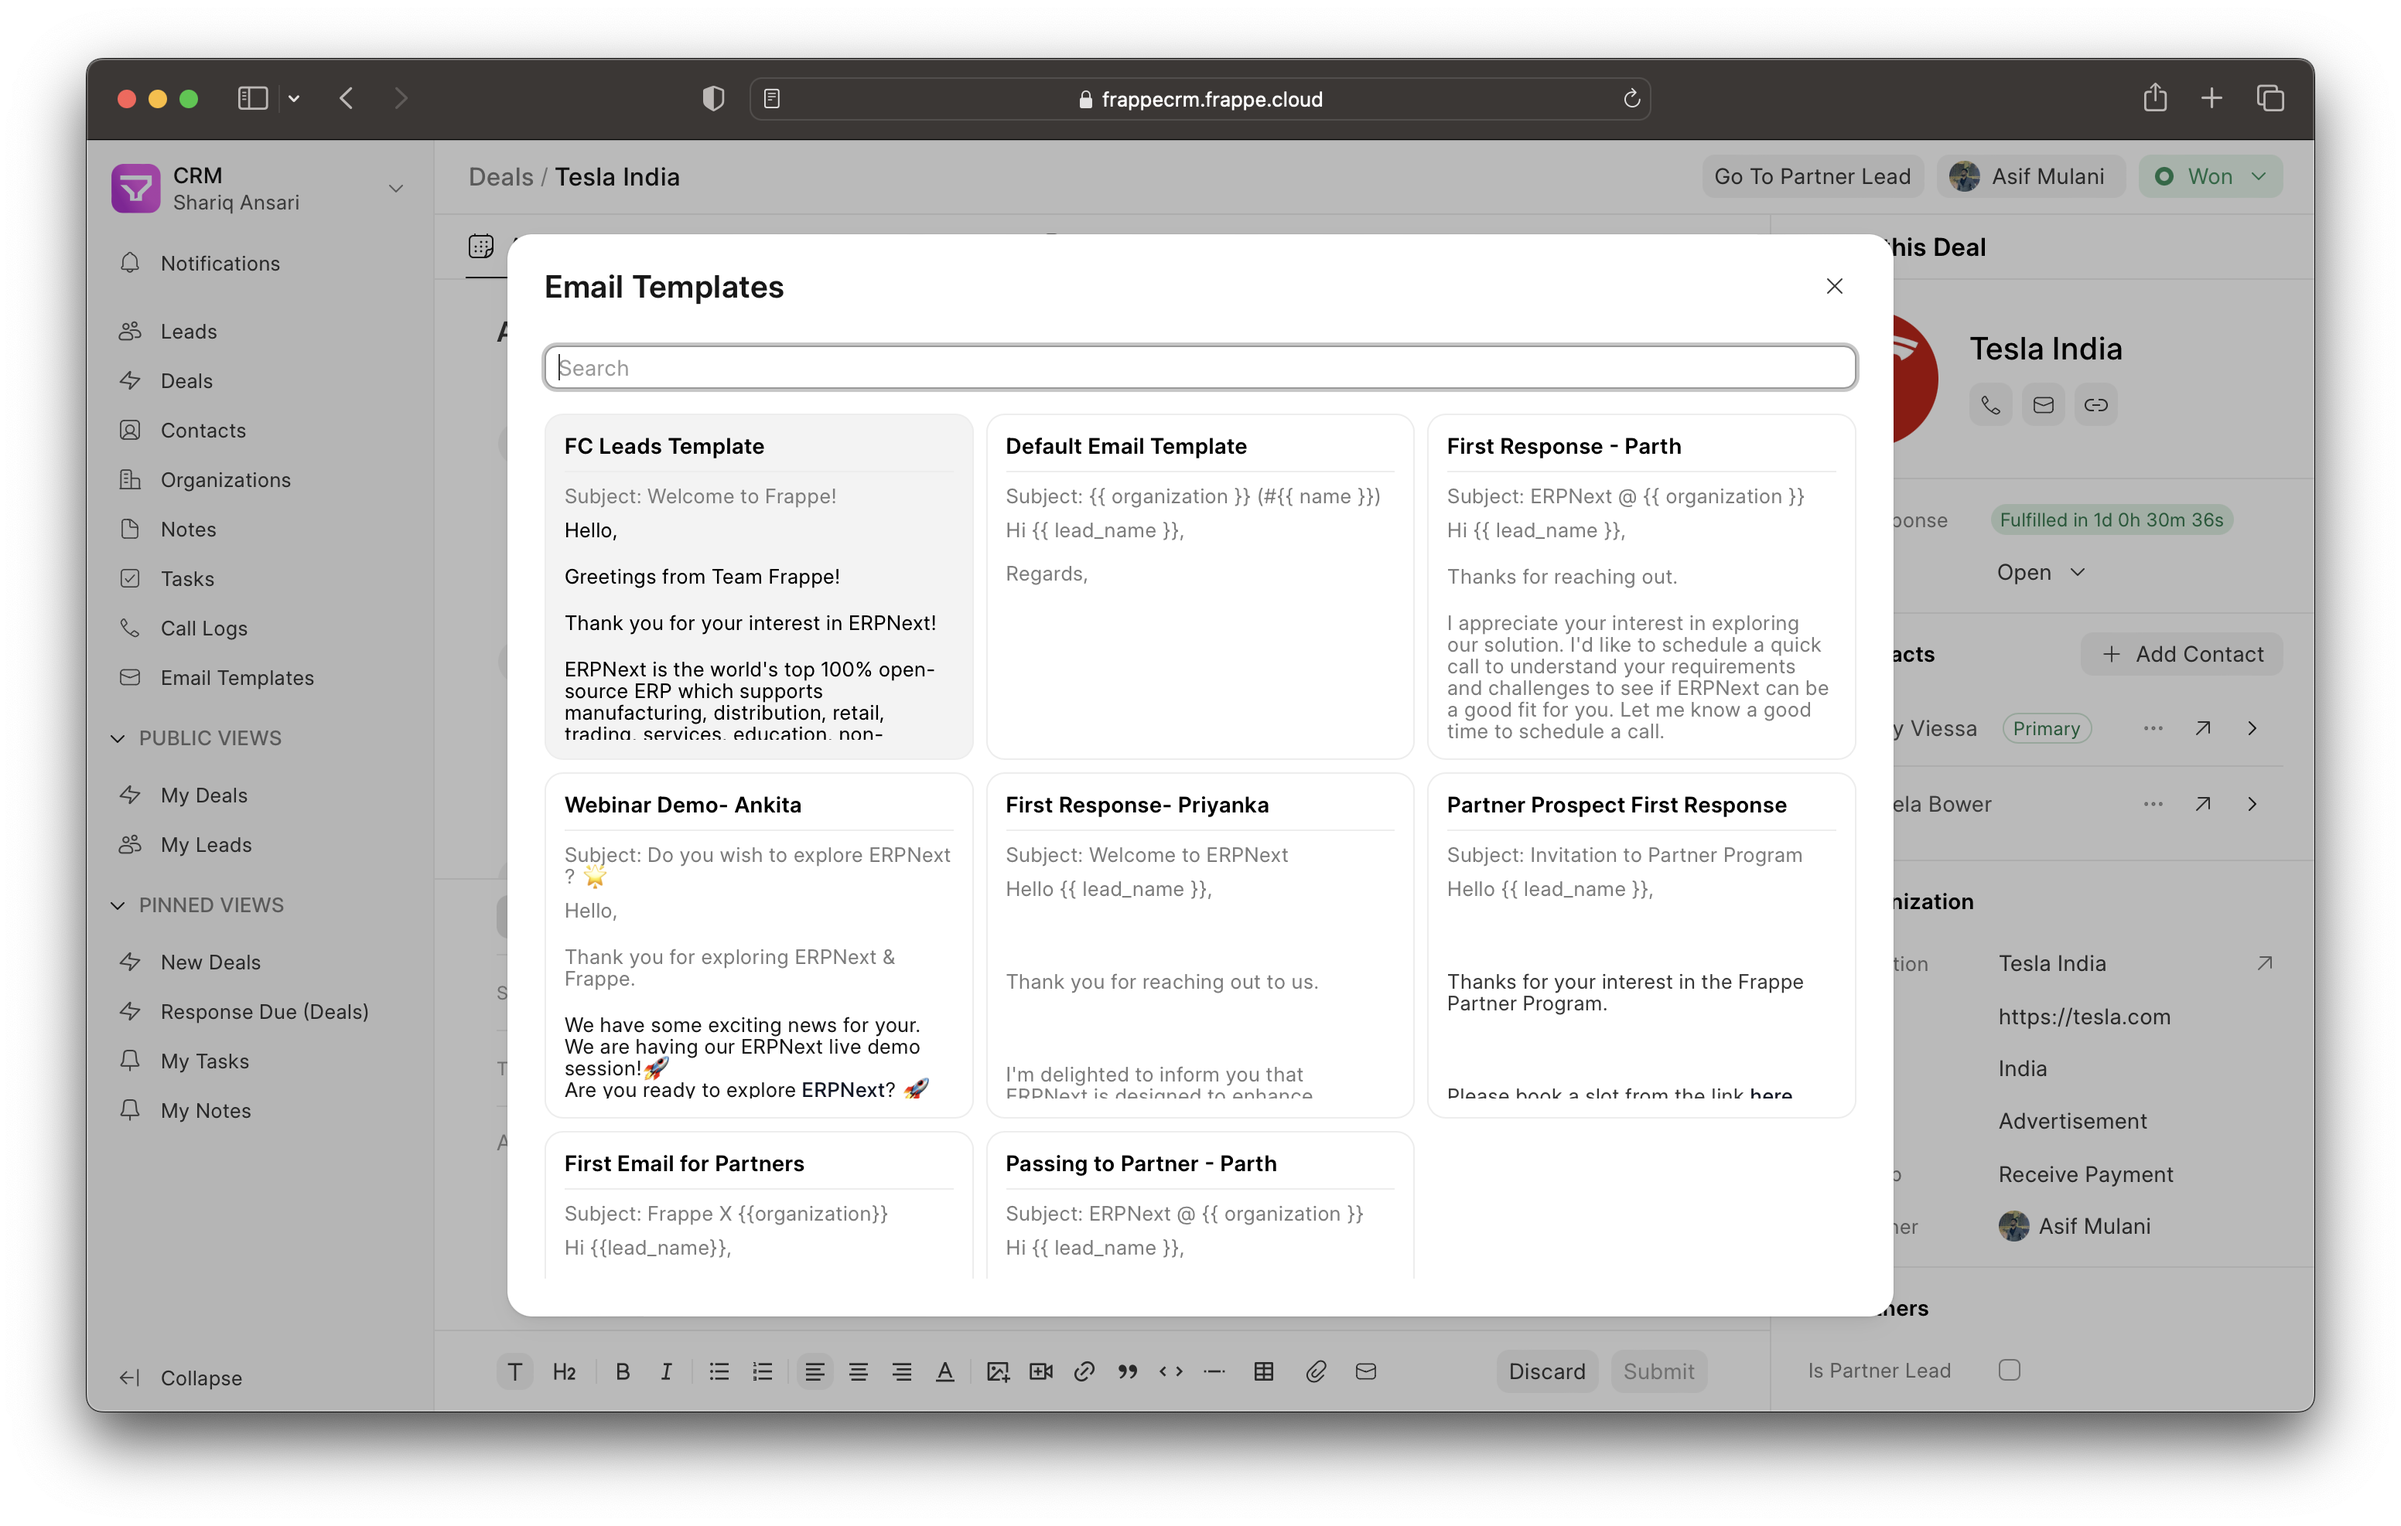
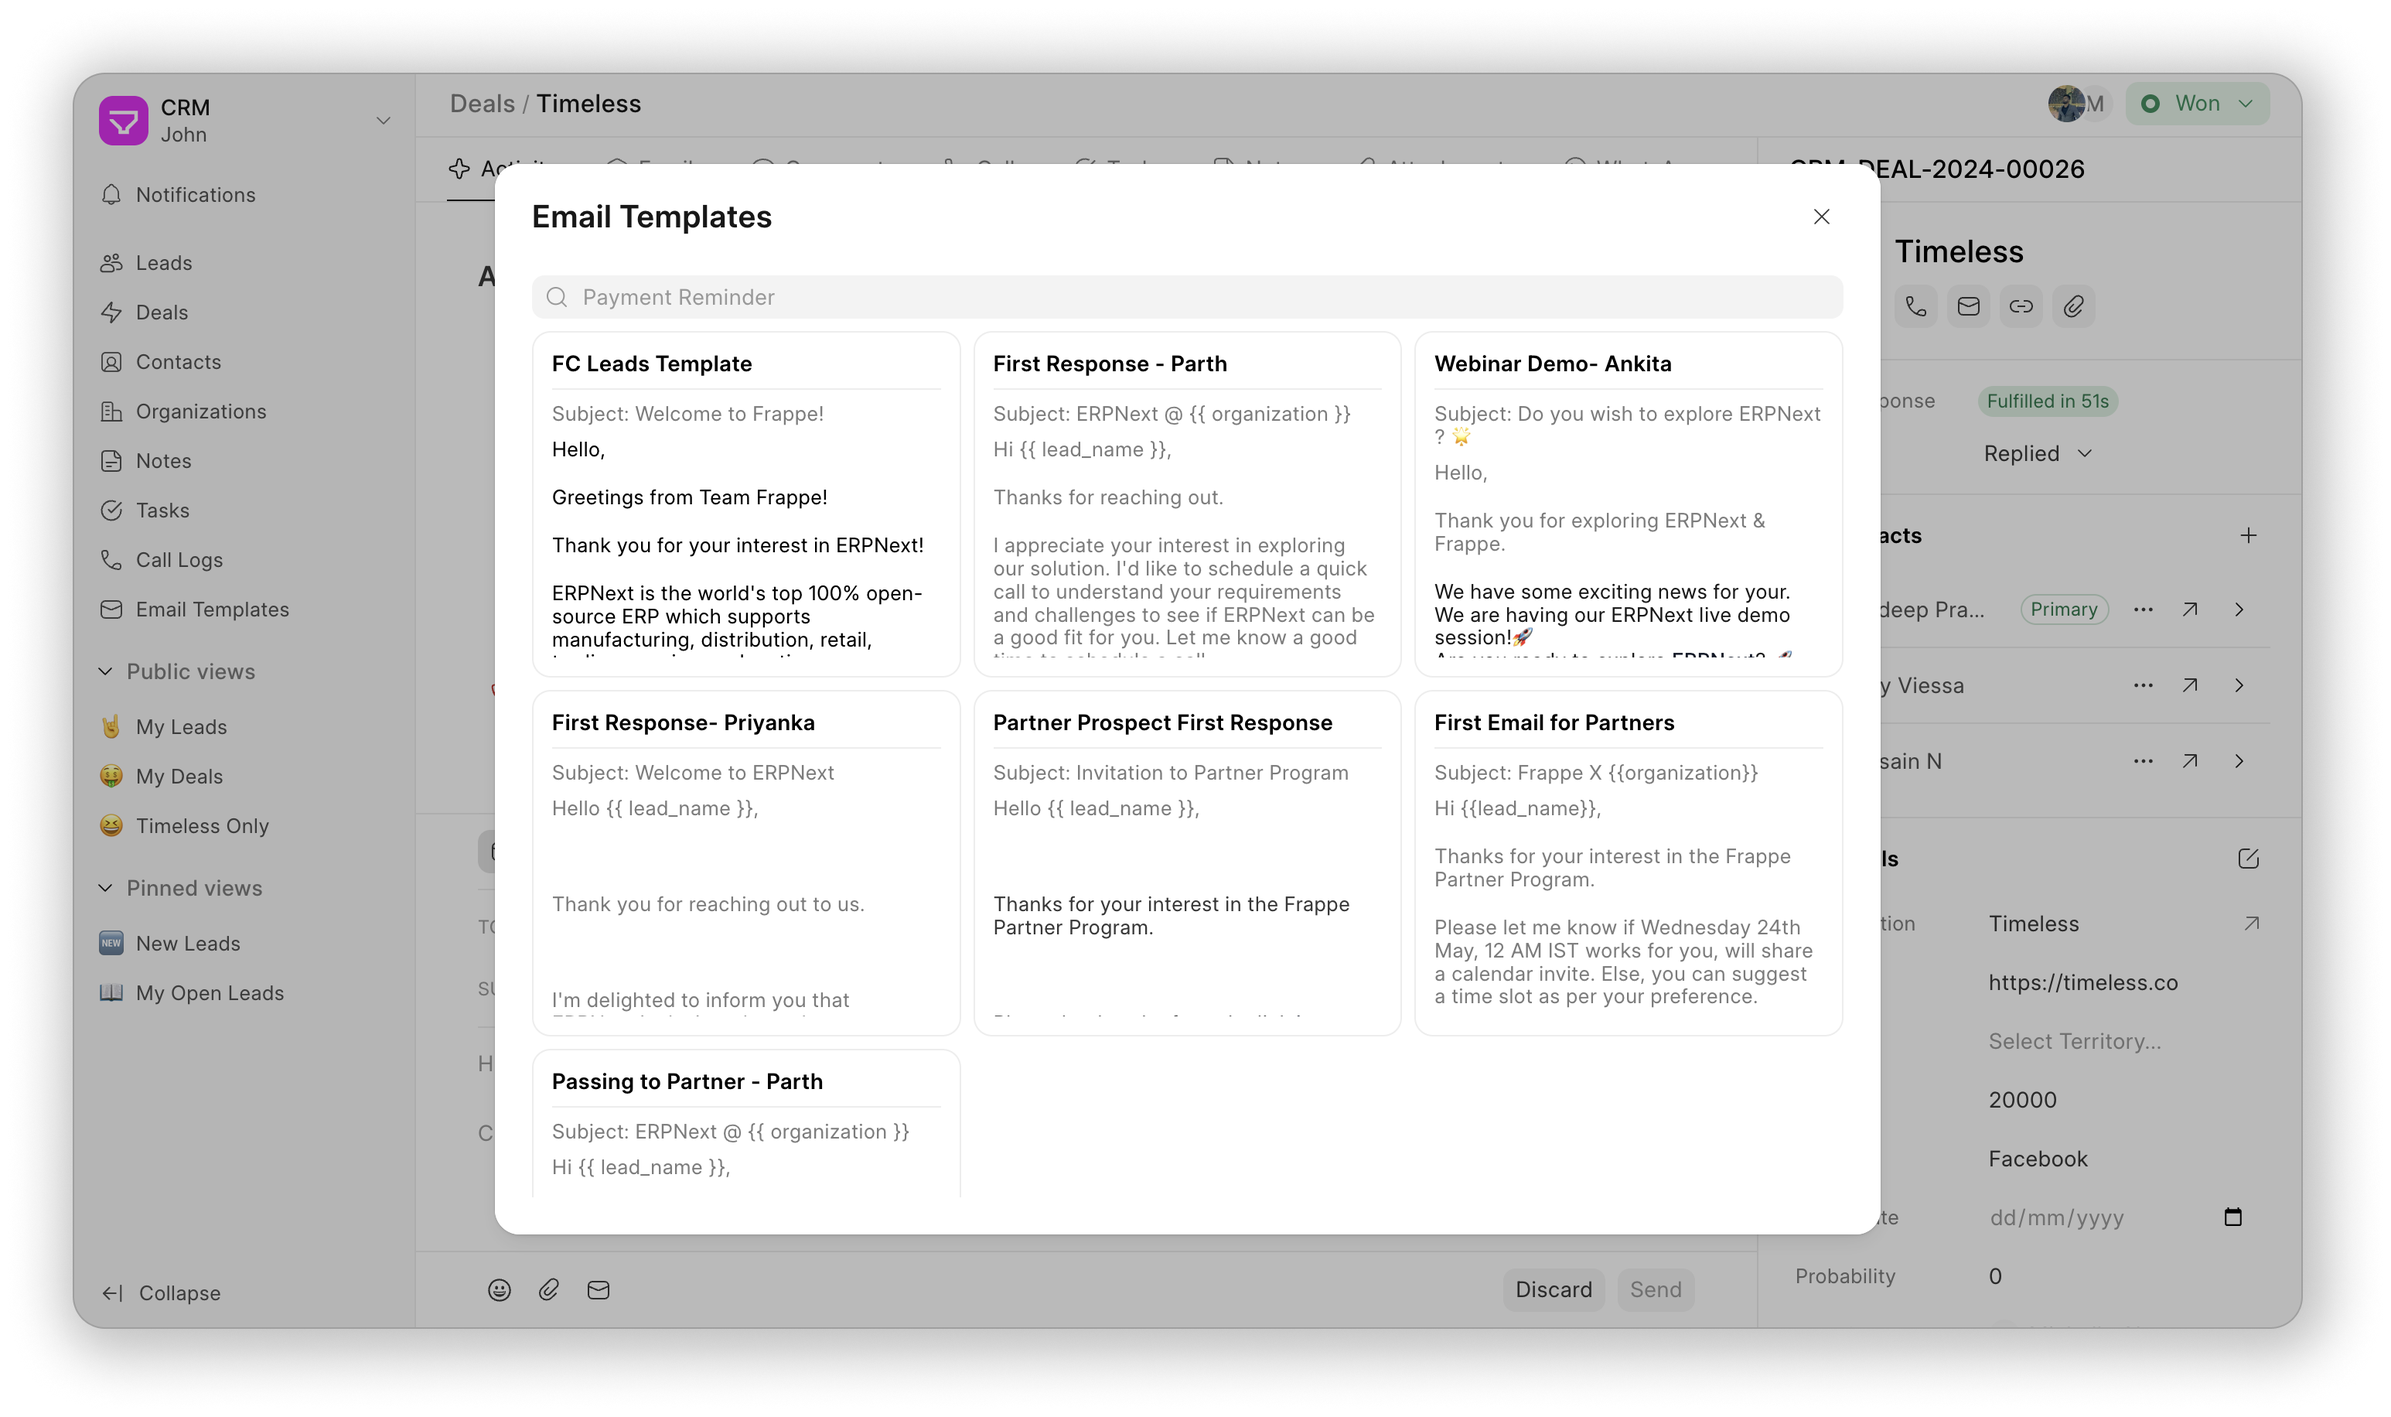
chore: updated README

diff --git a/README.md b/README.md
@@ -1,26 +1,29 @@
-<div align="center">
-    <a href="https://frappe.io/products/crm">
-        <img width="1402" alt="Screenshot 2022-09-18 at 9 16 08 PM" src=".github/screenshots/MainDealPage.png">
-    </a>
+<div align="center" markdown="1">
+
+<a href="https://frappe.io/products/crm">
+    <img src=".github/logo.svg" height="100" alt="Frappe CRM Logo">
+</a>
+
+<h1>Frappe CRM</h1>
+
+**Simplify Sales, Amplify Relationships**
+
+![GitHub release (latest by date)](https://img.shields.io/github/v/release/frappe/crm)
+![Issues](https://img.shields.io/github/issues/frappe/crm)
+![License](https://img.shields.io/github/license/frappe/crm)
+![Stars](https://img.shields.io/github/stars/frappe/crm)
+
+![Frappe CRM](.github/screenshots/FrappeCRMHero.png)
+[Live Demo](https://frappecrm-demo.frappe.cloud/api/method/crm.api.demo.login) - [Website](https://frappe.io/crm) - [Documentation](https://docs.frappe.io/crm)
 </div>
 
-<p align="center">
-    <a href="https://img.shields.io/github/issues/frappe/crm">
-        <img alt="issues" src="https://img.shields.io/github/issues/frappe/crm">
-    </a>
-    <a href="https://img.shields.io/github/license/frappe/crm">
-        <img alt="license" src="https://img.shields.io/github/license/frappe/crm">
-    </a>
-</p>
+## Frappe CRM
 
-<details>
-    <summary>Show more screenshots</summary>
-    <img width="1402" alt="Screenshot 2022-09-18 at 9 18 17 PM" src=".github/screenshots/DealsList.png">
-    <img width="1402" alt="Screenshot 2022-09-18 at 11 47 06 PM" src=".github/screenshots/LeadPage.png">
-    <img width="1402" alt="Screenshot 2022-09-18 at 9 18 47 PM" src=".github/screenshots/Emailtemplates.png">
-    <img width="1402" alt="Screenshot 2022-09-18 at 9 18 47 PM" src=".github/screenshots/CallUI.png">
-    <img width="1402" alt="Screenshot 2022-09-18 at 9 18 47 PM" src=".github/screenshots/CallLogs.png">
-</details>
+Frappe CRM is a simple, affordable, open-source CRM tool designed for modern sales teams with unlimited users. Frappe CRM is crafted for providing a great user experience, packed with features for core CRM activities helping you build strong customer relationships while keeping things clean and organised.
+
+## Motivation
+
+The motivation behind building Frappe CRM stems from the need for a simple, customizable, and open-source solution tailored to modern business needs. Many existing CRMs are either too complex, overly generic, or locked behind steep pricing models that hinder accessibility and flexibility. Frappe CRM was designed to bridge this gap, offering a tool that empowers businesses to manage their customer relationships seamlessly while being easy to adapt to specific workflows. Built on the Frappe framework, it prioritizes usability, extensibility, and affordability, making it an ideal choice for growing teams and organizations looking for a CRM that aligns with their unique processes.
 
 ## Key Features
 
@@ -42,50 +45,96 @@
 
 -   **Twilio:** Integrate Twilio to make and receive calls from the CRM. You can also record calls. It is a built-in integration.
 -   **WhatsApp:** Integrate WhatsApp to send and receive messages from the CRM. [Frappe WhatsApp](https://github.com/shridarpatil/frappe_whatsapp) is used for this integration.
+-   **ERPNext:** Integrate with [ERPNext](https://erpnext.com) to extend the CRM capabilities to include invoicing, accounting, and more.
 
-## Getting Started
+<details>
+<summary>Screenshots</summary>
+
+![Deals List](.github/screenshots/LeadList.png)
+![Lead Page](.github/screenshots/LeadPage.png)
+![Email Templates](.github/screenshots/EmailTemplates.png)
+![Call UI](.github/screenshots/CallUI.png)
+![Call Logs](.github/screenshots/CallLog.png)
+
+</details>
+
+## Under the Hood
+
+-   [**Frappe Framework**](https://github.com/frappe/frappe): A full-stack web application framework written in Python and Javascript. The framework provides a robust foundation for building web applications, including a database abstraction layer, user authentication, and a REST API.
+
+-   [**Frappe UI**](https://github.com/frappe/frappe-ui): A Vue-based UI library, to provide a modern user interface. The Frappe UI library provides a variety of components that can be used to build single-page applications on top of the Frappe Framework.
+
+## Production Setup
 
 ### Managed Hosting
 
-Get started with your personal or business site with a few clicks on [Frappe Cloud](https://frappecloud.com/marketplace/apps/crm).
+You can try [Frappe Cloud](https://frappecloud.com), a simple, user-friendly and sophisticated [open-source](https://github.com/frappe/press) platform to host Frappe applications with peace of mind.
 
-### Docker (Recommended)
+It takes care of installation, setup, upgrades, monitoring, maintenance and support of your Frappe deployments. It is a fully featured developer platform with an ability to manage and control multiple Frappe deployments.
 
-The quickest way to set up Frappe CRM and take it for a test ride.
+<div>
+	<a href="https://frappecloud.com/crm/signup" target="_blank">
+		<picture>
+			<source media="(prefers-color-scheme: dark)" srcset="https://frappe.io/files/try-on-fc-white.png">
+			<img src="https://frappe.io/files/try-on-fc-black.png" alt="Try on Frappe Cloud" height="28" />
+		</picture>
+	</a>
+</div>
 
-Frappe framework is multi-tenant and supports multiple apps by default. This docker compose is just a standalone version with Frappe CRM pre-installed. Just put it behind your desired reverse-proxy if needed, and you're good to go.  
-  
-If you wish to use multiple Frappe apps or need multi-tenancy. Take a look at our production ready self-hosted workflow, or join us on Frappe Cloud to get first party support and hassle-free hosting.
+### Self Hosting
+
+Follow these steps to set up Frappe CRM in production:
+
+**Step 1**: Download the easy install script
+
+```bash
+wget https://frappe.io/easy-install.py
+```
+
+**Step 2**: Run the deployment command
+
+```bash
+python3 ./easy-install.py deploy \
+    --project=crm_prod_setup \
+    --email=your_email.example.com \
+    --image=ghcr.io/frappe/crm \
+    --version=stable \
+    --app=crm \
+    --sitename subdomain.domain.tld
+```
+
+Replace the following parameters with your values:
+
+-   `your_email.example.com`: Your email address
+-   `subdomain.domain.tld`: Your domain name where CRM will be hosted
+
+The script will set up a production-ready instance of Frappe CRM with all the necessary configurations in about 5 minutes.
+
+## Development Setup
+
+### Docker
+
+You need Docker, docker-compose and git setup on your machine. Refer [Docker documentation](https://docs.docker.com/). After that, follow below steps:
 
 **Step 1**: Setup folder and download the required files
 
     mkdir frappe-crm
     cd frappe-crm
 
-**Step 2**: Download the required files
-
-Docker Compose File:
-
+    # Download the docker-compose file
     wget -O docker-compose.yml https://raw.githubusercontent.com/frappe/crm/develop/docker/docker-compose.yml
 
-Frappe CRM bench setup script
-
+    # Download the setup script
     wget -O init.sh https://raw.githubusercontent.com/frappe/crm/develop/docker/init.sh
 
-**Step 3**: Run the container and daemonize it
+**Step 2**: Run the container and daemonize it
 
     docker compose up -d
 
-**Step 4**: The site [http://crm.localhost](http://crm.localhost) should now be available. The default credentials are:
+**Step 3**: The site [http://crm.localhost:8000/crm](http://crm.localhost:8000/crm) should now be available. The default credentials are:
 
-> username: administrator  
-> password: admin
-
-### Self-hosting
-
-If you prefer self-hosting, follow the official [Frappe Bench Installation](https://github.com/frappe/bench#installation) instructions.
-
-## Want to Just Try Out or Contribute?
+-   Username: Administrator
+-   Password: admin
 
 ### Codespaces
 
@@ -96,7 +145,7 @@ If you prefer self-hosting, follow the official [Frappe Bench Installation](http
 5. Log in with "Administrator" as the username and "admin" as the password.
 6. Go to `<random-id>.github.dev/crm` to access the crm interface.
 
-### Local Setup
+### Local
 
 1. [Install Bench](https://github.com/frappe/bench).
 2. Install Frappe CRM app:
@@ -113,14 +162,19 @@ If you prefer self-hosting, follow the official [Frappe Bench Installation](http
     ```
 5. Access the crm page at `sitename.localhost:8000/crm` in your web browser.
 
-## Need help?
+## Learn and connect
 
-Join our [telegram group](https://t.me/frappecrm) for instant help.
+-   [Telegram Public Group](https://t.me/frappecrm)
+-   [Discuss Forum](https://discuss.frappe.io/c/frappe-crm)
+-   [Documentation](https://docs.frappe.io/crm)
+-   [YouTube](https://frappe.io)
 
-## Documentation
-
-Check out the [official documentation](https://docs.frappe.io/crm) for more details.
-
-## License
-
-[GNU Affero General Public License v3.0](LICENSE)
+<h2></h2>
+<div align="center" style="padding-top: 0.75rem;">
+	<a href="https://frappe.io" target="_blank">
+		<picture>
+			<source media="(prefers-color-scheme: dark)" srcset="https://frappe.io/files/Frappe-white.png">
+			<img src="https://frappe.io/files/Frappe-black.png" alt="Frappe Technologies" height="28"/>
+		</picture>
+	</a>
+</div>
